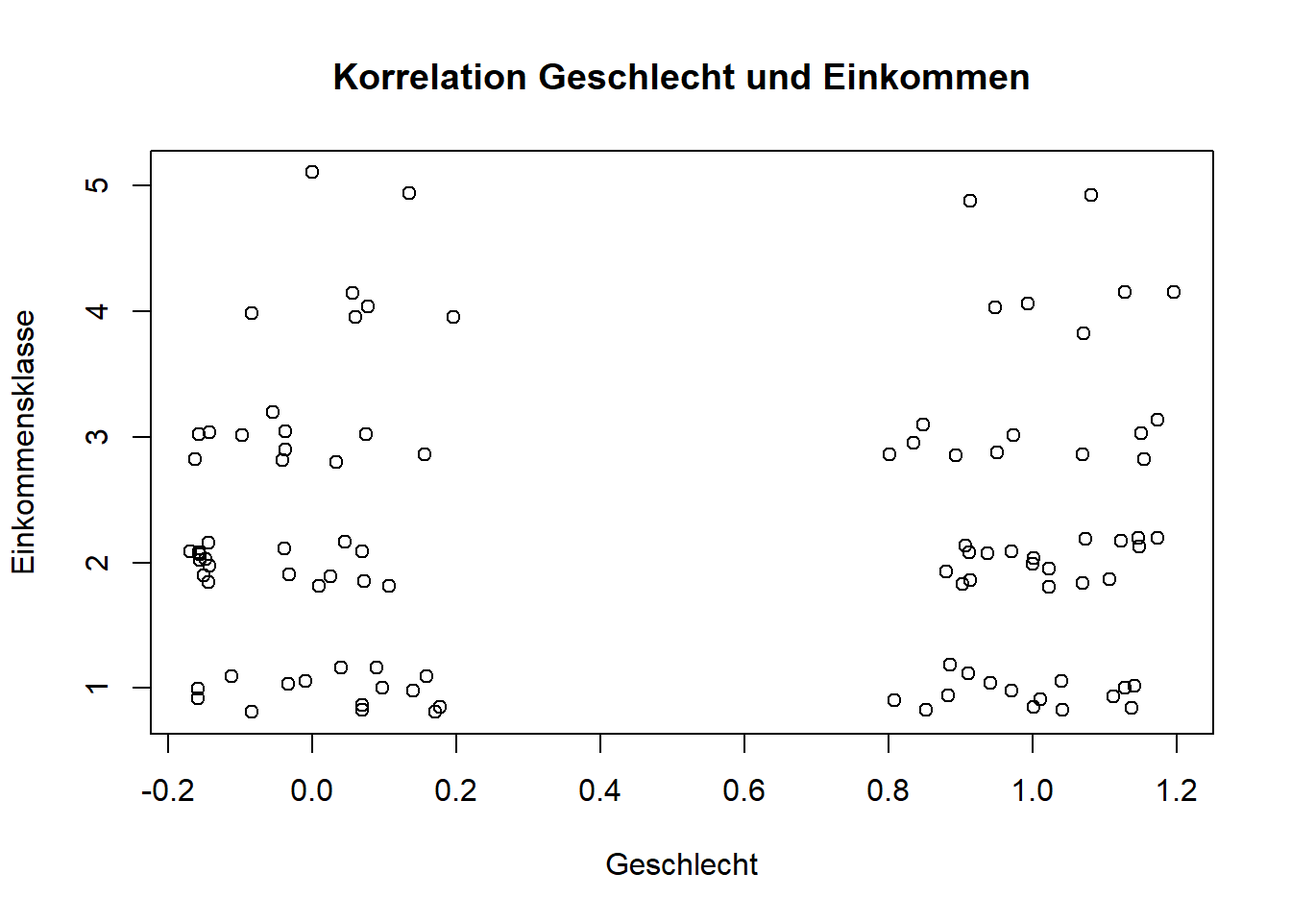
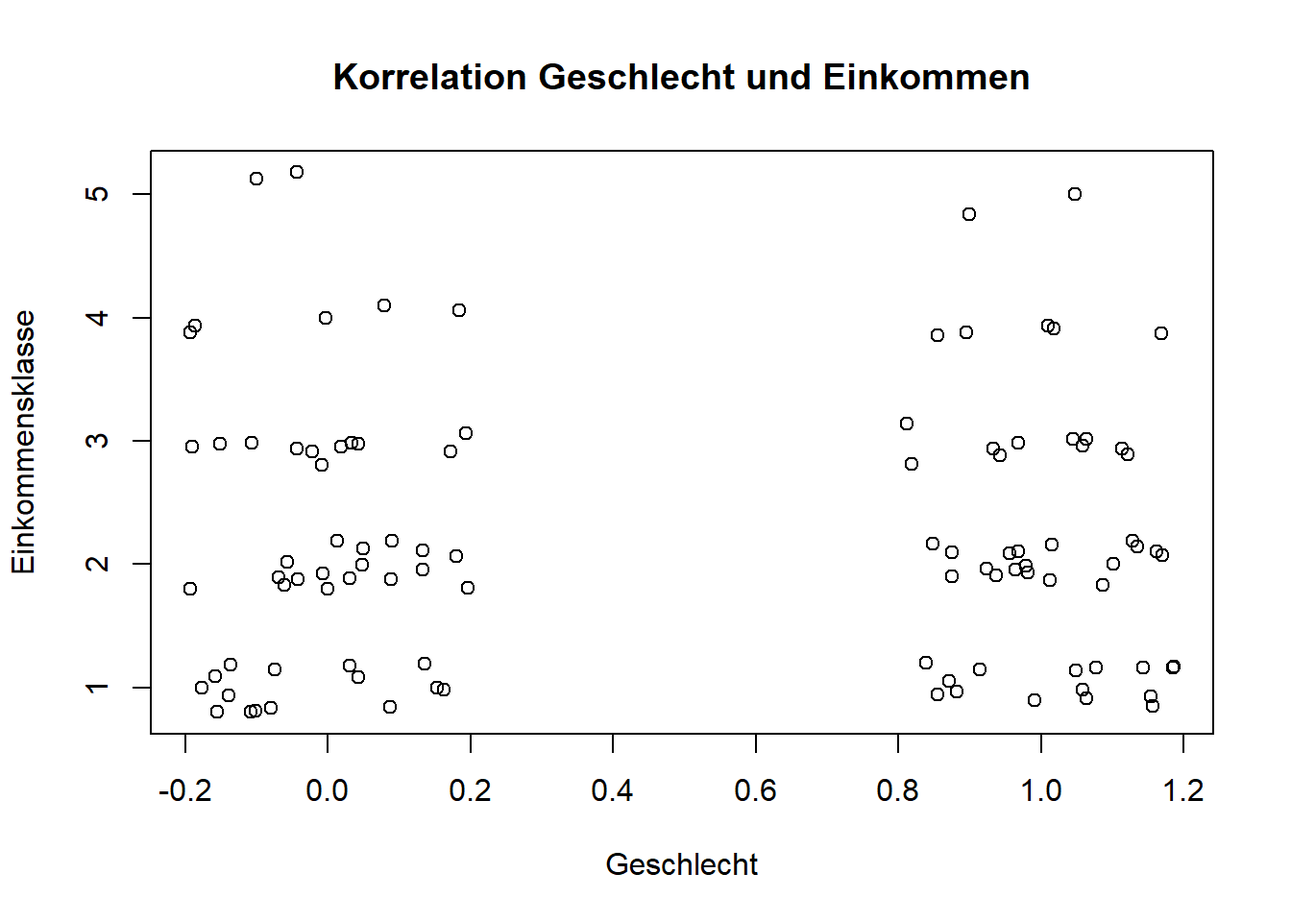
Bookdown Update

diff --git a/docs/wochenplan-05.html b/docs/wochenplan-05.html
@@ -210,6 +210,7 @@ code span.wa { color: #60a0b0; font-weight: bold; font-style: italic; } /* Warni
 <span id="cb124-4"><a href="wochenplan-05.html#cb124-4"></a>Schulzeit_J &lt;-<span class="st"> </span><span class="kw">round</span>(<span class="kw">rnorm</span>(<span class="dv">100</span>,<span class="dv">14</span>,<span class="dv">2</span>),<span class="dv">0</span>)</span>
 <span id="cb124-5"><a href="wochenplan-05.html#cb124-5"></a>Einkommen_Kl &lt;-<span class="st"> </span><span class="kw">c</span>(<span class="kw">rep</span>(<span class="st">&quot;unterd&quot;</span>, <span class="dv">19</span>), <span class="kw">rep</span>(<span class="st">&quot;durchs&quot;</span>, <span class="dv">41</span>), <span class="kw">rep</span>(<span class="st">&quot;ueberd&quot;</span>, <span class="dv">40</span>)) <span class="co">#stammt nicht aus einer Lösung</span></span>
 <span id="cb124-6"><a href="wochenplan-05.html#cb124-6"></a>datensatz &lt;-<span class="st"> </span><span class="kw">data.frame</span>(Geschlecht,Einkommen_CHF,AnzahlZimmer_H,Schulzeit_J,Einkommen_Kl)</span></code></pre></div>
+<p> </p>
 <ol start="2" style="list-style-type: decimal">
 <li>Wenden Sie die Funktionen ‘dim()’, ‘names()’, ‘str()’, ‘class()’ und ‘typeof()’ auf Ihr Dataframe an. Was sagen Ihnen diese Funktionen jeweils? Welcher Output dieser Funktionen leuchtet Ihnen ein, welcher weniger?</li>
 </ol>
@@ -223,10 +224,10 @@ code span.wa { color: #60a0b0; font-weight: bold; font-style: italic; } /* Warni
 <p>…die Namen Ihrer Vektoren aus, also die Variablennamen im Datensatz;</p>
 <div class="sourceCode" id="cb129"><pre class="sourceCode r"><code class="sourceCode r"><span id="cb129-1"><a href="wochenplan-05.html#cb129-1"></a><span class="kw">str</span>(datensatz)</span></code></pre></div>
 <pre><code>## &#39;data.frame&#39;:	100 obs. of  5 variables:
-##  $ Geschlecht    : num  0 1 1 1 1 1 0 0 0 1 ...
+##  $ Geschlecht    : num  0 0 0 1 0 0 1 1 0 1 ...
 ##  $ Einkommen_CHF : num  4100 4200 4300 4400 4500 4600 4700 4800 4900 5000 ...
 ##  $ AnzahlZimmer_H: num  2 2 2 2 2 1 1 1 1 1 ...
-##  $ Schulzeit_J   : num  11 12 15 16 12 16 15 13 15 12 ...
+##  $ Schulzeit_J   : num  15 15 13 12 12 14 14 14 12 16 ...
 ##  $ Einkommen_Kl  : chr  &quot;unterd&quot; &quot;unterd&quot; &quot;unterd&quot; &quot;unterd&quot; ...</code></pre>
 <p>…die Struktur Ihres Datensatzes aus, das heisst die Unterobjekte bzw. Variablen im Datensatz, auf die Sie mittels dem Dollarzeichen zugreifen können.</p>
 <div class="sourceCode" id="cb131"><pre class="sourceCode r"><code class="sourceCode r"><span id="cb131-1"><a href="wochenplan-05.html#cb131-1"></a><span class="kw">class</span>(datensatz)</span></code></pre></div>
@@ -235,78 +236,123 @@ code span.wa { color: #60a0b0; font-weight: bold; font-style: italic; } /* Warni
 <div class="sourceCode" id="cb133"><pre class="sourceCode r"><code class="sourceCode r"><span id="cb133-1"><a href="wochenplan-05.html#cb133-1"></a><span class="kw">typeof</span>(datensatz)</span></code></pre></div>
 <pre><code>## [1] &quot;list&quot;</code></pre>
 <p>…und den Typ Ihres Objektes, das heisst die R-interne Art und Weise, das Objekt abzuspeichern <span class="citation">(vgl. Kabacoff <a href="#ref-Kabacoff2015" role="doc-biblioref">2015</a>, 23ff)</span>.</p>
+<p> </p>
 <ol start="3" style="list-style-type: decimal">
 <li>Schreiben Sie eine for-Schleife, die Ihnen für die vier numerischen Spalte Ihres Dataframes den Mittelwert berechnet.</li>
 </ol>
 <div class="sourceCode" id="cb135"><pre class="sourceCode r"><code class="sourceCode r"><span id="cb135-1"><a href="wochenplan-05.html#cb135-1"></a><span class="cf">for</span> (i <span class="cf">in</span> <span class="dv">1</span><span class="op">:</span>(<span class="kw">dim</span>(datensatz)[<span class="dv">2</span>]<span class="op">-</span><span class="dv">1</span>)) {</span>
 <span id="cb135-2"><a href="wochenplan-05.html#cb135-2"></a>  <span class="kw">print</span>(<span class="kw">mean</span>(datensatz[,i]))</span>
 <span id="cb135-3"><a href="wochenplan-05.html#cb135-3"></a>}</span></code></pre></div>
-<pre><code>## [1] 0.57
+<pre><code>## [1] 0.43
 ## [1] 9050
 ## [1] 3.99
-## [1] 14.05</code></pre>
-<p>Einige Hinweise hierzu: Der Zusatz ‘(dim(datensatz)[2]-1))’ generiert lediglich die Zahl 4. Die for-Schleife soll ja den Mittelwerte für die vier numerischen Variablen des Datensatzes berechnen. Dies könnte man auch einfach hinschreiben (‘i in 1:4’) oder mit verschiedenen weiteren Möglichkeiten erreichen (etwa über ‘(ncol(datensatz)-1)’).
-Innerhalb der geschweiften Klammern wird definiert, was für jedes i wiederholt werden soll. In unserem Beispiel ist dies die Berechnung des Mittelwertes, während mit i unsere vier verschiedenen Variablen bezeichnet werden.
+## [1] 13.75</code></pre>
+<p>Einige Hinweise hierzu: Der Zusatz ‘(dim(datensatz)[2]-1))’ generiert lediglich die Zahl 4. Die for-Schleife soll ja den Mittelwerte für die vier numerischen Variablen des Datensatzes berechnen. Dies könnte man auch einfach hinschreiben (‘i in 1:4’) oder mit verschiedenen weiteren Möglichkeiten erreichen (etwa über ‘(ncol(datensatz)-1)’). Der Vorteil einer so definierten (anstatt hingeschriebenen) Variante ist, dass wir eigentlich gar nicht wissen müssten wieviele Variablen das wären – und die Anzahl variieren könnte.</p>
+<div class="sourceCode" id="cb137"><pre class="sourceCode r"><code class="sourceCode r"><span id="cb137-1"><a href="wochenplan-05.html#cb137-1"></a><span class="cf">for</span> (i <span class="cf">in</span> <span class="dv">1</span><span class="op">:</span><span class="dv">4</span>) {</span>
+<span id="cb137-2"><a href="wochenplan-05.html#cb137-2"></a>  <span class="kw">print</span>(<span class="kw">mean</span>(datensatz[,i]))</span>
+<span id="cb137-3"><a href="wochenplan-05.html#cb137-3"></a>}</span></code></pre></div>
+<pre><code>## [1] 0.43
+## [1] 9050
+## [1] 3.99
+## [1] 13.75</code></pre>
+<div class="sourceCode" id="cb139"><pre class="sourceCode r"><code class="sourceCode r"><span id="cb139-1"><a href="wochenplan-05.html#cb139-1"></a><span class="co">#...funktioniert auch...</span></span></code></pre></div>
+<p>Innerhalb der geschweiften Klammern wird definiert, was für jedes i wiederholt werden soll. In unserem Beispiel ist dies die Berechnung des Mittelwertes, während mit i unsere vier verschiedenen Variablen bezeichnet werden.
 Die Funktion ‘print()’ stellt sicher, dass die berechneten Werte auch ausgegeben werden.</p>
+<p>Weitere tolle Lösungsvorschläge:</p>
+<div class="sourceCode" id="cb140"><pre class="sourceCode r"><code class="sourceCode r"><span id="cb140-1"><a href="wochenplan-05.html#cb140-1"></a><span class="co">#...von Frau Diethelm</span></span>
+<span id="cb140-2"><a href="wochenplan-05.html#cb140-2"></a><span class="cf">for</span>(v <span class="cf">in</span> datensatz[,<span class="dv">1</span><span class="op">:</span><span class="dv">4</span>]) {</span>
+<span id="cb140-3"><a href="wochenplan-05.html#cb140-3"></a><span class="kw">print</span>(<span class="kw">mean</span>(v))</span>
+<span id="cb140-4"><a href="wochenplan-05.html#cb140-4"></a>}</span>
+<span id="cb140-5"><a href="wochenplan-05.html#cb140-5"></a><span class="co">#...von Herr Ineichen (allerdings mit einem kleinen Problem)</span></span>
+<span id="cb140-6"><a href="wochenplan-05.html#cb140-6"></a><span class="cf">for</span>(i <span class="cf">in</span> <span class="kw">seq_along</span>(datensatz)){</span>
+<span id="cb140-7"><a href="wochenplan-05.html#cb140-7"></a>  <span class="kw">print</span>(<span class="kw">mean</span>(datensatz[,i]))</span>
+<span id="cb140-8"><a href="wochenplan-05.html#cb140-8"></a>  }</span>
+<span id="cb140-9"><a href="wochenplan-05.html#cb140-9"></a><span class="co">#..von Frau Nguyen mit cleverem Zusatz</span></span>
+<span id="cb140-10"><a href="wochenplan-05.html#cb140-10"></a><span class="cf">for</span> (i <span class="cf">in</span> <span class="kw">names</span>(datensatz)) {</span>
+<span id="cb140-11"><a href="wochenplan-05.html#cb140-11"></a>  <span class="cf">if</span>(<span class="kw">class</span>(datensatz[,i])<span class="op">==</span><span class="st">&#39;numeric&#39;</span>){</span>
+<span id="cb140-12"><a href="wochenplan-05.html#cb140-12"></a>    <span class="kw">print</span>(<span class="kw">mean</span>(datensatz[,i]))</span>
+<span id="cb140-13"><a href="wochenplan-05.html#cb140-13"></a>  }</span>
+<span id="cb140-14"><a href="wochenplan-05.html#cb140-14"></a>}</span></code></pre></div>
+<p> </p>
 <ol start="4" style="list-style-type: decimal">
 <li>Überprüfen Sie Ihre Ergebnisse, indem Sie die Berechnung des Mittelwerts “händisch” für jede Spalte einzeln durchführen (nutzen Sie dazu Indizierung/Subsetting mittels eckiger Klammern).</li>
 </ol>
-<div class="sourceCode" id="cb137"><pre class="sourceCode r"><code class="sourceCode r"><span id="cb137-1"><a href="wochenplan-05.html#cb137-1"></a><span class="kw">mean</span>(datensatz[,<span class="dv">1</span>]) <span class="co">#entspricht mean(datensatz$Geschlecht)</span></span></code></pre></div>
-<pre><code>## [1] 0.57</code></pre>
-<div class="sourceCode" id="cb139"><pre class="sourceCode r"><code class="sourceCode r"><span id="cb139-1"><a href="wochenplan-05.html#cb139-1"></a><span class="kw">mean</span>(datensatz[,<span class="dv">2</span>]) <span class="co">#... mean(datensatz$Einkommen_CHF)</span></span></code></pre></div>
+<div class="sourceCode" id="cb141"><pre class="sourceCode r"><code class="sourceCode r"><span id="cb141-1"><a href="wochenplan-05.html#cb141-1"></a><span class="kw">mean</span>(datensatz[,<span class="dv">1</span>]) <span class="co">#entspricht mean(datensatz$Geschlecht)</span></span></code></pre></div>
+<pre><code>## [1] 0.43</code></pre>
+<div class="sourceCode" id="cb143"><pre class="sourceCode r"><code class="sourceCode r"><span id="cb143-1"><a href="wochenplan-05.html#cb143-1"></a><span class="kw">mean</span>(datensatz[,<span class="dv">2</span>]) <span class="co">#... mean(datensatz$Einkommen_CHF)</span></span></code></pre></div>
 <pre><code>## [1] 9050</code></pre>
-<div class="sourceCode" id="cb141"><pre class="sourceCode r"><code class="sourceCode r"><span id="cb141-1"><a href="wochenplan-05.html#cb141-1"></a><span class="kw">mean</span>(datensatz[,<span class="dv">3</span>]) <span class="co">#...</span></span></code></pre></div>
+<div class="sourceCode" id="cb145"><pre class="sourceCode r"><code class="sourceCode r"><span id="cb145-1"><a href="wochenplan-05.html#cb145-1"></a><span class="kw">mean</span>(datensatz[,<span class="dv">3</span>]) <span class="co">#...</span></span></code></pre></div>
 <pre><code>## [1] 3.99</code></pre>
-<div class="sourceCode" id="cb143"><pre class="sourceCode r"><code class="sourceCode r"><span id="cb143-1"><a href="wochenplan-05.html#cb143-1"></a><span class="kw">mean</span>(datensatz[,<span class="dv">4</span>])</span></code></pre></div>
-<pre><code>## [1] 14.05</code></pre>
+<div class="sourceCode" id="cb147"><pre class="sourceCode r"><code class="sourceCode r"><span id="cb147-1"><a href="wochenplan-05.html#cb147-1"></a><span class="kw">mean</span>(datensatz[,<span class="dv">4</span>])</span></code></pre></div>
+<pre><code>## [1] 13.75</code></pre>
+<p> </p>
 <ol start="5" style="list-style-type: decimal">
 <li>Definieren Sie als eine erste Variante eine logische Bedingung, die Ihnen erlaubt, Ihr Dataframe anhand der Character-Variable in ungefähr zwei Gruppen zu teilen. Teilen Sie dann als zweite Variante Ihren Datensatz anhand einer anderen logischen Bedingung mit einer Ihrer numerischen Variablen in zwei Gruppen.</li>
 </ol>
-<div class="sourceCode" id="cb145"><pre class="sourceCode r"><code class="sourceCode r"><span id="cb145-1"><a href="wochenplan-05.html#cb145-1"></a><span class="co">#Variante 1</span></span>
-<span id="cb145-2"><a href="wochenplan-05.html#cb145-2"></a>datensatz_v11 &lt;-<span class="st"> </span>datensatz[datensatz<span class="op">$</span>Einkommen_Kl<span class="op">==</span><span class="st">&quot;durchs&quot;</span>,]</span>
-<span id="cb145-3"><a href="wochenplan-05.html#cb145-3"></a>datensatz_v12 &lt;-<span class="st"> </span>datensatz[datensatz<span class="op">$</span>Einkommen_Kl<span class="op">!=</span><span class="st">&quot;durchs&quot;</span>,]</span>
-<span id="cb145-4"><a href="wochenplan-05.html#cb145-4"></a></span>
-<span id="cb145-5"><a href="wochenplan-05.html#cb145-5"></a><span class="co">#Variante 1</span></span>
-<span id="cb145-6"><a href="wochenplan-05.html#cb145-6"></a>datensatz_v21 &lt;-<span class="st"> </span>datensatz[datensatz<span class="op">$</span>Einkommen_CHF<span class="op">&lt;</span><span class="dv">9900</span>,]</span>
-<span id="cb145-7"><a href="wochenplan-05.html#cb145-7"></a>datensatz_v22 &lt;-<span class="st"> </span>datensatz[datensatz<span class="op">$</span>Einkommen_CHF<span class="op">&gt;</span><span class="dv">10000</span>,]</span></code></pre></div>
+<p>In diesen logischen Bedingung können wir verschiedene logische Operatoren verwenden <span class="citation">(vgl. Manderscheid <a href="#ref-Manderscheid2017" role="doc-biblioref">2017</a>, 26)</span>:</p>
+<p>gleich <strong>==</strong></p>
+<p>ungleich <strong>!=</strong></p>
+<p>größer <strong>&gt;</strong></p>
+<p>größer gleich <strong>&gt;~</strong></p>
+<p>kleiner <strong>&lt;</strong></p>
+<p>kleiner gleich <strong>&lt;~</strong></p>
+<p>und <strong>&amp;</strong></p>
+<p>oder <strong>|</strong></p>
+<div class="sourceCode" id="cb149"><pre class="sourceCode r"><code class="sourceCode r"><span id="cb149-1"><a href="wochenplan-05.html#cb149-1"></a><span class="co">#Variante 1</span></span>
+<span id="cb149-2"><a href="wochenplan-05.html#cb149-2"></a>datensatz_v11 &lt;-<span class="st"> </span>datensatz[datensatz<span class="op">$</span>Einkommen_Kl<span class="op">==</span><span class="st">&quot;durchs&quot;</span>,]</span>
+<span id="cb149-3"><a href="wochenplan-05.html#cb149-3"></a>datensatz_v12 &lt;-<span class="st"> </span>datensatz[datensatz<span class="op">$</span>Einkommen_Kl<span class="op">!=</span><span class="st">&quot;durchs&quot;</span>,]</span>
+<span id="cb149-4"><a href="wochenplan-05.html#cb149-4"></a></span>
+<span id="cb149-5"><a href="wochenplan-05.html#cb149-5"></a><span class="co">#Variante 1</span></span>
+<span id="cb149-6"><a href="wochenplan-05.html#cb149-6"></a>datensatz_v21 &lt;-<span class="st"> </span>datensatz[datensatz<span class="op">$</span>Einkommen_CHF<span class="op">&lt;</span><span class="dv">9900</span>,]</span>
+<span id="cb149-7"><a href="wochenplan-05.html#cb149-7"></a>datensatz_v22 &lt;-<span class="st"> </span>datensatz[datensatz<span class="op">$</span>Einkommen_CHF<span class="op">&gt;</span><span class="dv">10000</span>,]</span></code></pre></div>
 <p>Die erste Variante generiert zwei Teildatensätze, wobei im ersten alle mit durchschnittlichem Einkommen enthalten sind und im zweiten Teildatensatz diejenigen, die entweder über ein unter- oder überdurchschnittliches Einkommen verfügen.
 Die zweite Variante generiert zwei Teildatensätze indem eine Unterscheidung getroffen wird zwischen denjenigen, die entweder mehr oder weniger als 10’000CHF pro Monat verdienen.</p>
+<p>Wieso verwendet man hierfür nun nicht einfach eine Funktion, z.Bsp. ‘subset()’ (oder auch ‘split()’)?</p>
+<div class="sourceCode" id="cb150"><pre class="sourceCode r"><code class="sourceCode r"><span id="cb150-1"><a href="wochenplan-05.html#cb150-1"></a><span class="kw">subset</span>(datensatz, <span class="dt">subset =</span> datensatz<span class="op">$</span>Einkommen_Kl<span class="op">==</span><span class="st">&quot;durchs&quot;</span>)</span>
+<span id="cb150-2"><a href="wochenplan-05.html#cb150-2"></a><span class="co">#das würde auch gehen</span></span></code></pre></div>
+<p>Die Überlegungen, die wir machen, sollen immer einem Objekt gelten, d.h. wir wollen ein Bewusstsein für ein Objekt schaffen – im Beispiel des data.frames hat dieses Objekt eben Zeilen und Spalten und diesen können wir indizieren. Wir brauchen keine spezifischen Funktionen sondern können immer in einem allgemeinen Sinne (gemäss den drei Varianten <strong>[]</strong>, <strong>$</strong>, <strong>which()</strong>) auf Objekte zugreifen. Dieses Zugreifen können wir immer verwenden – für Funktionen, für Argumente, für Teildatensätze (Subsetting), usw.</p>
+<p>Das Erstellen von Teildatensätzen kann nun auch komplexer werden durch verschiedenen Kombinationen. Im Folgenden werden zuerst die unterdurchschnittlichen und die durchschnittlichen Einkommen in einem Datensatz gepackt (Beispiel 1) und dann die Männer (Geschlecht==0), die unterdurchschnittlich viel Geld verdienen (Beispiel 2).</p>
+<div class="sourceCode" id="cb151"><pre class="sourceCode r"><code class="sourceCode r"><span id="cb151-1"><a href="wochenplan-05.html#cb151-1"></a><span class="co"># datensatz[datensatz$Einkommen_Kl==c(&quot;unterd&quot;, &quot;durchs&quot;),] !!! funktionert nicht!!!</span></span>
+<span id="cb151-2"><a href="wochenplan-05.html#cb151-2"></a><span class="co">#...die funktionierenden Kombinationen:</span></span>
+<span id="cb151-3"><a href="wochenplan-05.html#cb151-3"></a>datensatz[datensatz<span class="op">$</span>Einkommen_Kl<span class="op">==</span><span class="st">&quot;unterd&quot;</span> <span class="op">|</span><span class="st"> </span>datensatz<span class="op">$</span>Einkommen_Kl<span class="op">==</span><span class="st"> &quot;durchs&quot;</span>,] <span class="co">#Bsp1</span></span>
+<span id="cb151-4"><a href="wochenplan-05.html#cb151-4"></a>datensatz[datensatz<span class="op">$</span>Einkommen_Kl<span class="op">==</span><span class="st">&quot;unterd&quot;</span> <span class="op">&amp;</span><span class="st"> </span>datensatz<span class="op">$</span>Geschlecht<span class="op">==</span><span class="dv">0</span>,] <span class="co">#Bsp2</span></span></code></pre></div>
+<p> </p>
 <ol start="6" style="list-style-type: decimal">
 <li>Berechnen Sie bei einer der beiden Varianten aus Aufgabe 6 dann noch einmal die Mittelwerte pro Spalte, aber getrennt für diese beiden Gruppen.</li>
 </ol>
 <p>Hierfür konnte nun einfach die for-Schleife nochmals genutzt werden:</p>
-<div class="sourceCode" id="cb146"><pre class="sourceCode r"><code class="sourceCode r"><span id="cb146-1"><a href="wochenplan-05.html#cb146-1"></a><span class="co">#...für den ersten Teildatensatz der ersten Variante</span></span>
-<span id="cb146-2"><a href="wochenplan-05.html#cb146-2"></a><span class="cf">for</span> (i <span class="cf">in</span> <span class="dv">1</span><span class="op">:</span>(<span class="kw">dim</span>(datensatz_v11)[<span class="dv">2</span>]<span class="op">-</span><span class="dv">1</span>)) {</span>
-<span id="cb146-3"><a href="wochenplan-05.html#cb146-3"></a>  <span class="kw">print</span>(<span class="kw">mean</span>(datensatz_v11[,i]))</span>
-<span id="cb146-4"><a href="wochenplan-05.html#cb146-4"></a>}</span></code></pre></div>
-<pre><code>## [1] 0.4878049
+<div class="sourceCode" id="cb152"><pre class="sourceCode r"><code class="sourceCode r"><span id="cb152-1"><a href="wochenplan-05.html#cb152-1"></a><span class="co">#...für den ersten Teildatensatz der ersten Variante</span></span>
+<span id="cb152-2"><a href="wochenplan-05.html#cb152-2"></a><span class="cf">for</span> (i <span class="cf">in</span> <span class="dv">1</span><span class="op">:</span><span class="dv">4</span>) {</span>
+<span id="cb152-3"><a href="wochenplan-05.html#cb152-3"></a>  <span class="kw">print</span>(<span class="kw">mean</span>(datensatz_v11[,i]))</span>
+<span id="cb152-4"><a href="wochenplan-05.html#cb152-4"></a>}</span></code></pre></div>
+<pre><code>## [1] 0.3170732
 ## [1] 8000
 ## [1] 4.731707
-## [1] 13.73171</code></pre>
-<div class="sourceCode" id="cb148"><pre class="sourceCode r"><code class="sourceCode r"><span id="cb148-1"><a href="wochenplan-05.html#cb148-1"></a><span class="co">#...für den zweiten Teildatensatz der ersten Variante</span></span>
-<span id="cb148-2"><a href="wochenplan-05.html#cb148-2"></a><span class="cf">for</span> (i <span class="cf">in</span> <span class="dv">1</span><span class="op">:</span>(<span class="kw">dim</span>(datensatz_v12)[<span class="dv">2</span>]<span class="op">-</span><span class="dv">1</span>)) {</span>
-<span id="cb148-3"><a href="wochenplan-05.html#cb148-3"></a>  <span class="kw">print</span>(<span class="kw">mean</span>(datensatz_v12[,i]))</span>
-<span id="cb148-4"><a href="wochenplan-05.html#cb148-4"></a>}</span></code></pre></div>
-<pre><code>## [1] 0.6271186
+## [1] 13.56098</code></pre>
+<div class="sourceCode" id="cb154"><pre class="sourceCode r"><code class="sourceCode r"><span id="cb154-1"><a href="wochenplan-05.html#cb154-1"></a><span class="co">#...für den zweiten Teildatensatz der ersten Variante</span></span>
+<span id="cb154-2"><a href="wochenplan-05.html#cb154-2"></a><span class="cf">for</span> (i <span class="cf">in</span> <span class="dv">1</span><span class="op">:</span><span class="dv">4</span>) {</span>
+<span id="cb154-3"><a href="wochenplan-05.html#cb154-3"></a>  <span class="kw">print</span>(<span class="kw">mean</span>(datensatz_v12[,i]))</span>
+<span id="cb154-4"><a href="wochenplan-05.html#cb154-4"></a>}</span></code></pre></div>
+<pre><code>## [1] 0.5084746
 ## [1] 9779.661
 ## [1] 3.474576
-## [1] 14.27119</code></pre>
-<div class="sourceCode" id="cb150"><pre class="sourceCode r"><code class="sourceCode r"><span id="cb150-1"><a href="wochenplan-05.html#cb150-1"></a><span class="co">#...für den ersten Teildatensatz der zweiten Variante</span></span>
-<span id="cb150-2"><a href="wochenplan-05.html#cb150-2"></a><span class="cf">for</span> (i <span class="cf">in</span> <span class="dv">1</span><span class="op">:</span>(<span class="kw">dim</span>(datensatz_v21)[<span class="dv">2</span>]<span class="op">-</span><span class="dv">1</span>)) {</span>
-<span id="cb150-3"><a href="wochenplan-05.html#cb150-3"></a>  <span class="kw">print</span>(<span class="kw">mean</span>(datensatz_v21[,i]))</span>
-<span id="cb150-4"><a href="wochenplan-05.html#cb150-4"></a>}</span></code></pre></div>
-<pre><code>## [1] 0.5344828
+## [1] 13.88136</code></pre>
+<div class="sourceCode" id="cb156"><pre class="sourceCode r"><code class="sourceCode r"><span id="cb156-1"><a href="wochenplan-05.html#cb156-1"></a><span class="co">#...für den ersten Teildatensatz der zweiten Variante</span></span>
+<span id="cb156-2"><a href="wochenplan-05.html#cb156-2"></a><span class="cf">for</span> (i <span class="cf">in</span> <span class="dv">1</span><span class="op">:</span><span class="dv">4</span>) {</span>
+<span id="cb156-3"><a href="wochenplan-05.html#cb156-3"></a>  <span class="kw">print</span>(<span class="kw">mean</span>(datensatz_v21[,i]))</span>
+<span id="cb156-4"><a href="wochenplan-05.html#cb156-4"></a>}</span></code></pre></div>
+<pre><code>## [1] 0.3448276
 ## [1] 6950
 ## [1] 3.948276
-## [1] 13.53448</code></pre>
-<div class="sourceCode" id="cb152"><pre class="sourceCode r"><code class="sourceCode r"><span id="cb152-1"><a href="wochenplan-05.html#cb152-1"></a><span class="co">#...für den zweiten Teildatensatz der zweiten Variante</span></span>
-<span id="cb152-2"><a href="wochenplan-05.html#cb152-2"></a><span class="cf">for</span> (i <span class="cf">in</span> <span class="dv">1</span><span class="op">:</span>(<span class="kw">dim</span>(datensatz_v22)[<span class="dv">2</span>]<span class="op">-</span><span class="dv">1</span>)) {</span>
-<span id="cb152-3"><a href="wochenplan-05.html#cb152-3"></a>  <span class="kw">print</span>(<span class="kw">mean</span>(datensatz_v22[,i]))</span>
-<span id="cb152-4"><a href="wochenplan-05.html#cb152-4"></a>}</span></code></pre></div>
-<pre><code>## [1] 0.65
+## [1] 13.74138</code></pre>
+<div class="sourceCode" id="cb158"><pre class="sourceCode r"><code class="sourceCode r"><span id="cb158-1"><a href="wochenplan-05.html#cb158-1"></a><span class="co">#...für den zweiten Teildatensatz der zweiten Variante</span></span>
+<span id="cb158-2"><a href="wochenplan-05.html#cb158-2"></a><span class="cf">for</span> (i <span class="cf">in</span> <span class="dv">1</span><span class="op">:</span><span class="dv">4</span>) {</span>
+<span id="cb158-3"><a href="wochenplan-05.html#cb158-3"></a>  <span class="kw">print</span>(<span class="kw">mean</span>(datensatz_v22[,i]))</span>
+<span id="cb158-4"><a href="wochenplan-05.html#cb158-4"></a>}</span></code></pre></div>
+<pre><code>## [1] 0.575
 ## [1] 12050
 ## [1] 4
-## [1] 14.7</code></pre>
+## [1] 13.725</code></pre>
 
 </div>
 </div>
@@ -314,6 +360,9 @@ Die zweite Variante generiert zwei Teildatensätze indem eine Unterscheidung get
 <div id="refs" class="references">
 <div id="ref-Kabacoff2015">
 <p>Kabacoff, Robert. 2015. <em>R in Action: Data Analysis and Graphics with R</em>. Shelter Island, NY: Manning.</p>
+</div>
+<div id="ref-Manderscheid2017">
+<p>Manderscheid, Katharina. 2017. <em>Sozialwissenschaftliche Datenanalyse Mit R. Eine Einführung</em>. Wiesbaden: Springer VS.</p>
 </div>
 </div>
             </section>

diff --git a/docs/wochenplan-04.html b/docs/wochenplan-04.html
@@ -268,9 +268,9 @@ code span.wa { color: #60a0b0; font-weight: bold; font-style: italic; } /* Warni
 <p><img src="bookdown-demo_files/figure-html/unnamed-chunk-29-6.png" width="672" /></p>
 <p><em>Als Ergänzung</em>:‘runif’ und ‘rnorm()’ werden noch von der Funktion ‘rbinom()’ ergänzt, die zufällige binomiale Verteilungen erstellt. Dies sind Verteilungen die Ihnen angeben, ob ein Ereignis bei einer bestimmten Wahrscheinlichkeit eingetreten ist oder nicht. Damit kann zum Beispiel aufgezeigt werden, wie oft Sie bei zehn Münzwürfen Kopf bekommen (Beispiel I), oder auch wie oft Sie bei dreimal würfeln mit zwei Würfeln eine Sechs erzielen (Beispiel II).</p>
 <div class="sourceCode" id="cb97"><pre class="sourceCode r"><code class="sourceCode r"><span id="cb97-1"><a href="wochenplan-04.html#cb97-1"></a><span class="kw">rbinom</span>(<span class="dv">10</span>,<span class="dv">1</span>,<span class="fl">0.5</span>) <span class="co">#Beispiel I</span></span></code></pre></div>
-<pre><code>##  [1] 1 1 0 1 1 1 0 1 1 0</code></pre>
+<pre><code>##  [1] 0 1 0 1 1 1 0 0 0 1</code></pre>
 <div class="sourceCode" id="cb99"><pre class="sourceCode r"><code class="sourceCode r"><span id="cb99-1"><a href="wochenplan-04.html#cb99-1"></a><span class="kw">rbinom</span>(<span class="dv">3</span>,<span class="dv">2</span>, <span class="dv">2</span><span class="op">/</span><span class="dv">6</span>) <span class="co">#Beispiel II</span></span></code></pre></div>
-<pre><code>## [1] 1 0 1</code></pre>
+<pre><code>## [1] 0 1 2</code></pre>
 <ol start="4" style="list-style-type: decimal">
 <li>Als nächstes sollen Sie die beiden Verteilungen aus der Aufgabe 4, die 1.000 Fälle aufweisen, grafisch darstellen.</li>
 </ol>
